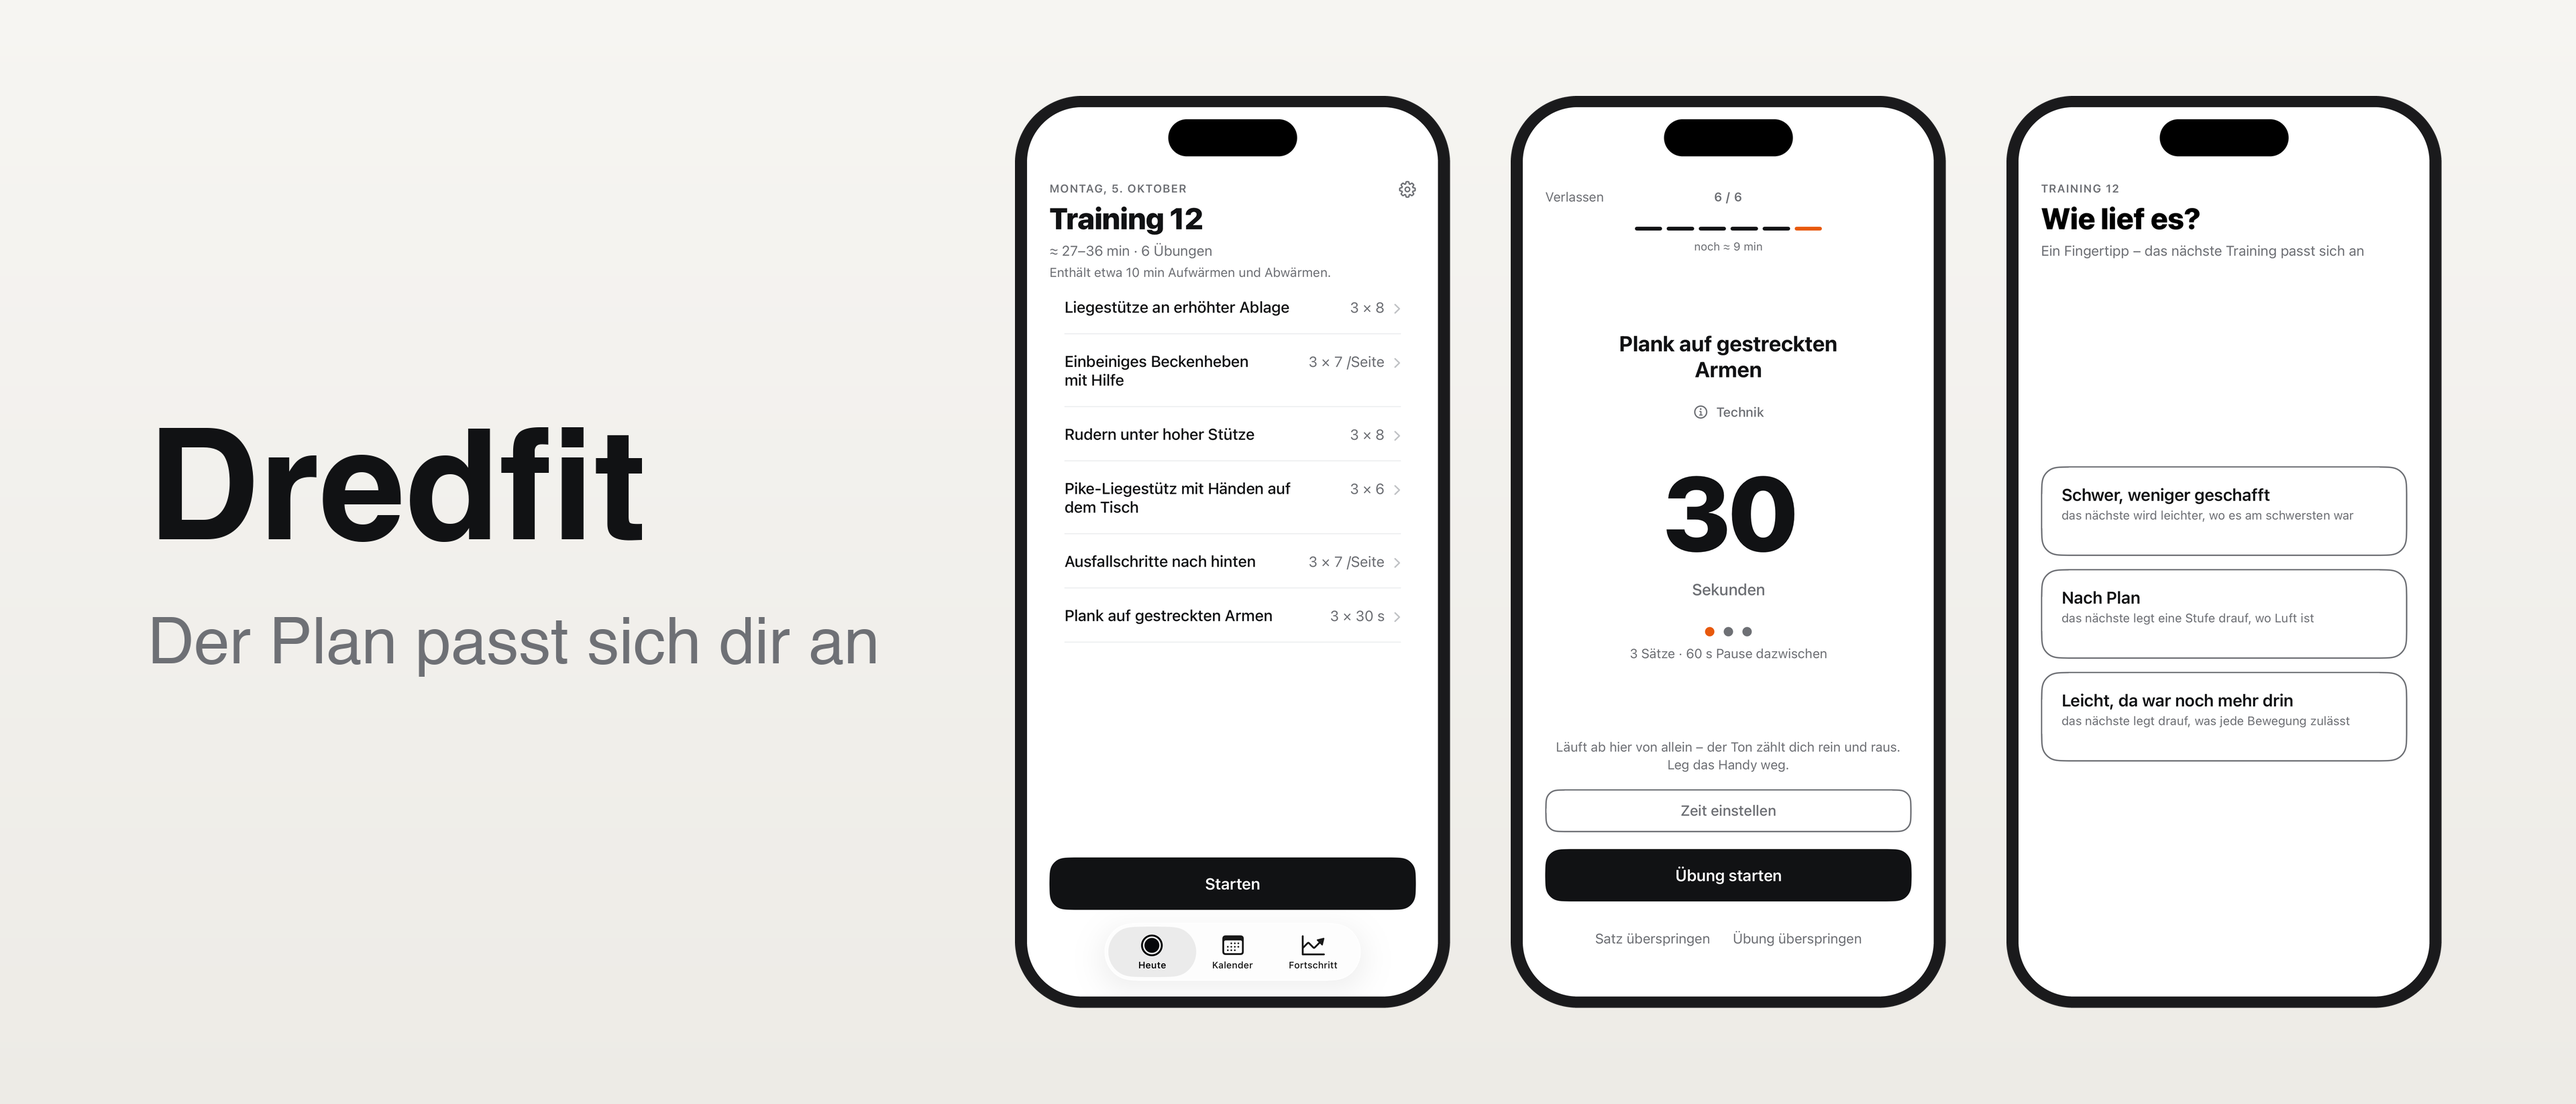
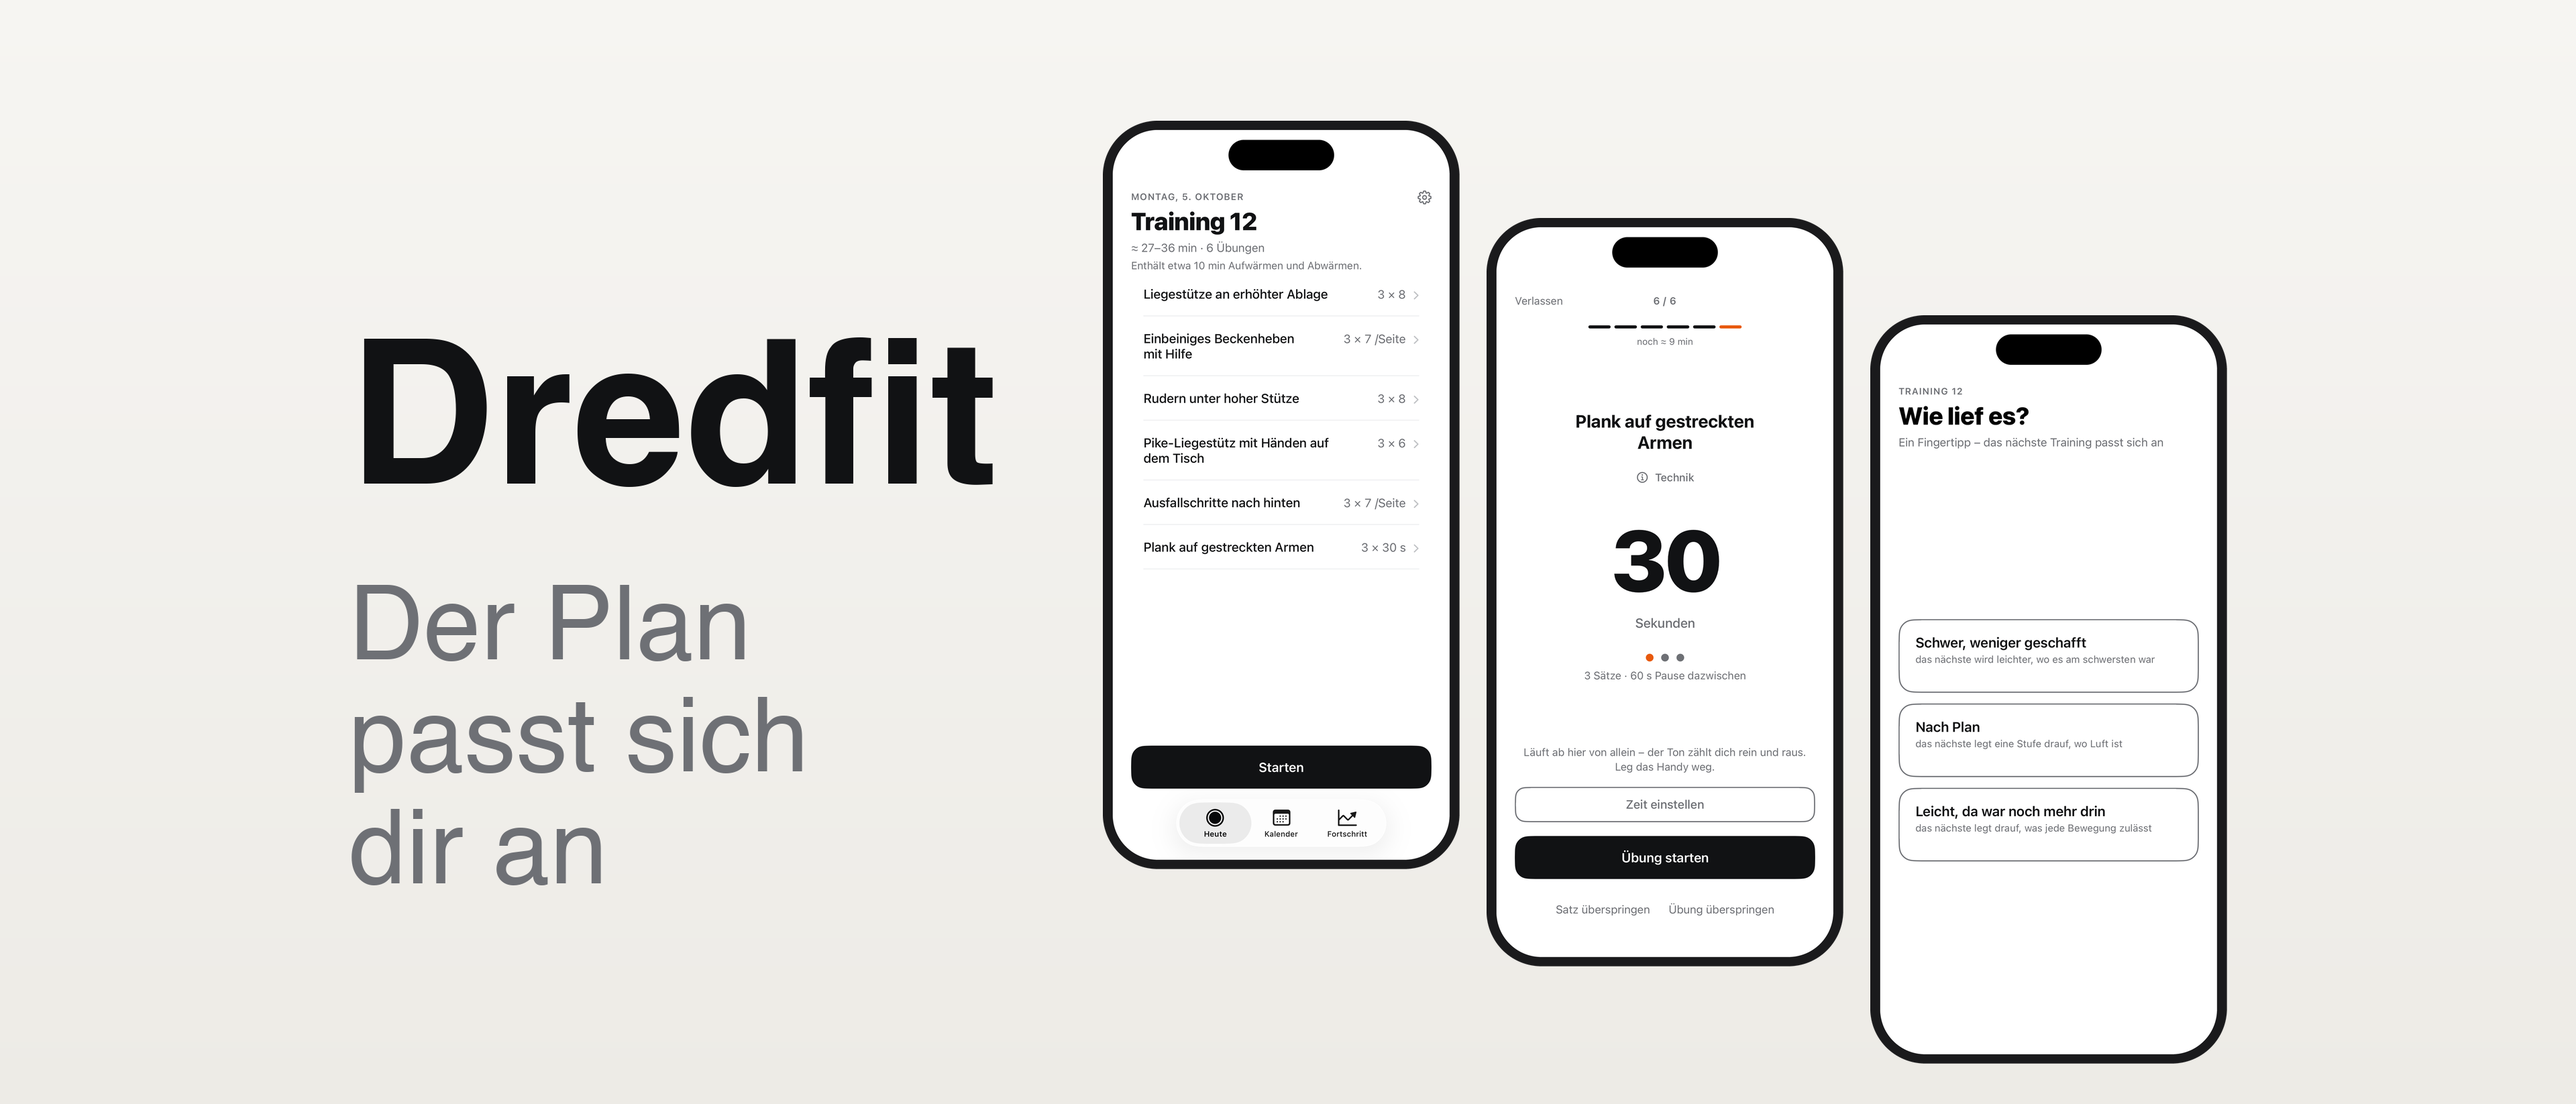
fix: the App Store header keeps its text and phones inside the iPhone crop, clear of the page's buttons

diff --git a/store/appstore/tools/compose_creative.py b/store/appstore/tools/compose_creative.py
@@ -176,7 +176,7 @@ def place_phone(canvas, raw_path, x, y, height):
     w = round(dev.width * height / dev.height)
     small = dev.resize((w, height), Image.LANCZOS)
     canvas.paste(small, (x, y), small)
-    return w
+    return (x, y, x + w, y + height)
 
 
 def phone_width(height):
@@ -206,7 +206,13 @@ class Clipped(Exception):
 # fails `--check`: it would otherwise silently stop applying.
 BREAKS = {
     # header: the store subtitle
-    "План подстраивается под тебя": ["План подстраивается", "под тебя"],
+    "Home training that adapts": ["Home training", "that adapts"],
+    "План подстраивается под тебя": ["План", "подстраивается", "под тебя"],
+    "El plan se adapta a ti": ["El plan", "se adapta a ti"],
+    "O plano se adapta a você": ["O plano", "se adapta", "a você"],
+    "Der Plan passt sich dir an": ["Der Plan", "passt sich", "dir an"],
+    "Le plan s’adapte à toi": ["Le plan", "s’adapte à toi"],
+    "Il piano si adatta a te": ["Il piano", "si adatta a te"],
     # search: slot 2 subtitle
     "One tap after the workout — the next one adapts.":
         ["One tap after the workout —", "the next one adapts."],
@@ -223,6 +229,11 @@ BREAKS = {
     "Un tocco dopo l’allenamento — il prossimo si adatta.":
         ["Un tocco dopo l’allenamento —", "il prossimo si adatta."],
 }
+
+# Breaks the owner signed off although they break a rule above — the way
+# compose.py's own `headline_lines` are trusted as written. «План» stands
+# alone because the header column is fixed (owner, 06.10.2026).
+REVIEWED_BREAKS = {"План подстраивается под тебя"}
 
 ARTICLES = {
     "en": {"a", "an", "the"},
@@ -263,7 +274,7 @@ def lines_for(text, font, width, loc):
     for line in lines:
         if d.textlength(line, font=font) > width:
             raise Clipped(f"{line!r} wider than {width}px")
-        why = bad_break(line, loc)
+        why = None if text in REVIEWED_BREAKS else bad_break(line, loc)
         if why:
             raise Clipped(f"{line!r}: {why}")
     return lines
@@ -286,12 +297,16 @@ def text_block(blocks, width, loc):
 
 
 def draw_rows(canvas, rows, x, top, width):
+    """Draws the rows; returns the ink box of each, for the zone check."""
     d = ImageDraw.Draw(canvas)
+    inks = []
     for line, font, colour, dy in rows:
         d.text((x, top + dy), line, font=font, fill=colour)
         ink = d.textbbox((x, top + dy), line, font=font)
         if ink[0] < x - 1 or ink[2] > x + width + 1 or ink[1] < 0 or ink[3] > canvas.height:
             raise Clipped(f"{line!r} ink {ink} outside column {x}..{x + width}")
+        inks.append((repr(line), ink))
+    return inks
 
 
 # --- the two layouts the owner chose -------------------------------------
@@ -304,21 +319,89 @@ HEADER = (3840, 1646)
 SEARCH = (3840, 2560)
 
 
+# Where the header is really seen. Measured by the owner in App Store
+# Connect's Device Preview (iPhone, Product Page, 06.10.2026), in asset px:
+# the iPhone shows only x 330…3530 of the 3840, and draws a back button and a
+# share button OVER the image. The 2.5.0 draft lost the "D" of the wordmark
+# and the top of the third phone to exactly these. SAFE is that crop with a
+# margin; the button circles are widened to whole rectangles. The page also
+# stretches the image's top edge, blurred, behind the status bar — so the top
+# edge is left as plain background.
+HEADER_SAFE = (520, 0, 3320, 1646)
+HEADER_BUTTONS = [(0, 0, 900, 470), (2900, 0, 3840, 470)]
+# At the ~0.2x the iPhone shows it, a 110 px cap height is ~22 px on screen.
+HEADER_MIN_CAP = 110
+HEADER_WORDMARK = head(300)
+HEADER_SUB_SIZE = 154
+# One phone size and position in every locale (owner, 06.10.2026): en's.
+HEADER_PHONE_H = 1116
+# The one exception, with its reason (owner, 06.10.2026): ru's subtitle
+# breaks «План / подстраивается / под тебя», and «подстраивается» is 1177 px
+# at the 154 px subtitle — wider than the 1004 px column en's phones leave.
+# 994 is the tallest phone that leaves room for it. Bottom edge and step stay
+# en's, so only the top of the cascade moves.
+HEADER_PHONE_H_BY_LOCALE = {"ru": 994}
+
+
+def check_zones(boxes, safe, buttons):
+    """boxes: (what, (x0, y0, x1, y1)). Raises on anything outside `safe` or
+    overlapping a button rectangle."""
+    for what, (x0, y0, x1, y1) in boxes:
+        if x0 < safe[0] or y0 < safe[1] or x1 > safe[2] or y1 > safe[3]:
+            raise Clipped(f"{what} {(x0, y0, x1, y1)} leaves the safe zone {safe}")
+        for bx0, by0, bx1, by1 in buttons:
+            if x0 < bx1 and x1 > bx0 and y0 < by1 and y1 > by0:
+                raise Clipped(f"{what} {(x0, y0, x1, y1)} enters a button zone "
+                              f"{(bx0, by0, bx1, by1)}")
+
+
 def header(loc, raw):
     """Brand line + a workout in three screens: the plan, the hands-free
-    hold, the one-tap rating (slots 1, 3, 2)."""
+    hold, the one-tap rating (slots 1, 3, 2), stepping down left to right in
+    the order a workout meets them. The step also keeps the third phone below
+    the share button while the first two use the height between the buttons.
+
+    Phones are the same in every locale but those in HEADER_PHONE_H_BY_LOCALE
+    (same bottom edge and step); the text column is the room left of them. A subtitle that does not fit breaks by sense (BREAKS), then
+    shrinks — never below HEADER_MIN_CAP, and never by shrinking the phones."""
     w, h = HEADER
+    sx0, _sy0, sx1, _sy1 = HEADER_SAFE
     cv = background(w, h)
-    ph = 1360
-    pw, gap = phone_width(ph), 90
-    px = w - 200 - (3 * pw + 2 * gap)
-    for i, slot in enumerate(["today", "handsfree", "rating"]):
-        place_phone(cv, raw(slot), px + i * (pw + gap), (h - ph) // 2, ph)
     _name, subtitle = STORE[loc]
-    col_x, col_w = 220, px - 220 - 140
-    rows, th = text_block([("Dredfit", head(230), C.HEAD_C, 40),
-                           (subtitle, sub(96), C.SUB_C, 0)], col_w, loc)
-    draw_rows(cv, rows, col_x, (h - th) // 2, col_w)
+    gap_text, gap = 120, 40
+    step = round(HEADER_PHONE_H * 0.13)
+    below = HEADER_BUTTONS[1][3]           # the third phone starts under the button
+    bottom = max(below - 2 * step, (h - (HEADER_PHONE_H + 2 * step)) // 2) \
+        + 2 * step + HEADER_PHONE_H        # the third phone's bottom edge, en's
+    ph = HEADER_PHONE_H_BY_LOCALE.get(loc, HEADER_PHONE_H)
+    if ph > HEADER_PHONE_H:
+        raise Clipped(f"phone override {ph} is taller than the default {HEADER_PHONE_H}")
+    pw = phone_width(ph)
+    top = bottom - 2 * step - ph
+    px = sx1 - (3 * pw + 2 * gap)
+    col_w = px - gap_text - sx0
+    last = None
+    for size in range(HEADER_SUB_SIZE, 0, -1):
+        font = sub(size)
+        cap = font.getbbox("H")
+        if cap[3] - cap[1] < HEADER_MIN_CAP:
+            raise Clipped(f"{last} — even at the {HEADER_MIN_CAP} px cap floor")
+        try:
+            lines_for(subtitle, font, col_w, loc)
+            break
+        except Clipped as e:
+            last = e
+    boxes = []
+    for i, slot in enumerate(["today", "handsfree", "rating"]):
+        boxes.append((f"phone {slot}",
+                      place_phone(cv, raw(slot), px + i * (pw + gap), top + i * step, ph)))
+    rows, th = text_block([("Dredfit", HEADER_WORDMARK, C.HEAD_C, 50),
+                           (subtitle, font, C.SUB_C, 0)], col_w, loc)
+    # centred on the phones, but a three-line subtitle must not lift the
+    # wordmark into the back button's zone
+    text_top = max(top + (ph + 2 * step - th) // 2, below + 20)
+    boxes += draw_rows(cv, rows, sx0, text_top, col_w)
+    check_zones(boxes, HEADER_SAFE, HEADER_BUTTONS)
     return cv
 
 
